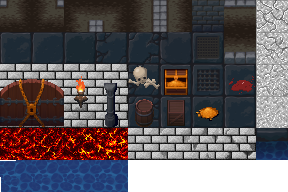
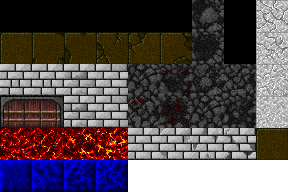
adjusting game area
added new 'paper' area for text under the map render area. removed licensed work and changed to purely opengame art. will work on making maps look better eventually.

diff --git a/DevSource/Run.java b/DevSource/Run.java
@@ -25,7 +25,8 @@ public class Run extends Application {
     public static boolean DEBUG_OUTPUT = true; // If true will allow debug information to be printed to console
     // Wrap System.out.println call with if(DEBUG_OUTPUT) {} to allow it to work or in other classes Run.DEBUG_OUTPUT
     private final int SCREEN_WIDTH = 1024; // Constant of screen width in pixels
-    private final int SCREEN_HEIGHT = 768; // Constant of screen height in pixels
+    private final int SCREEN_HEIGHT = 1024; // Constant of screen height in pixels
+    private final int SCREEN_MAP_HEIGHT = 768; // to show end of map drawing area
     private final int TILE_SIZE = 32; // Hardcoded 32*32 pixels
     private int[] DRAG_LOC = {-1, -1}; // This is a sentinel value that when -1 means there is no mouse drag to process
     // if it is set to a positive value it will be the mouse(x,y) upon the start of a drag
@@ -35,6 +36,7 @@ public class Run extends Application {
     private long startTime = System.nanoTime(); // These two are switches used for render/update logic
     private long currentTime;
     private Image mainMenuBg = new Image("file:GameData/Art/main_menu.png");
+    private Image paperBg = new Image("file:GameData/Art/paper.png", SCREEN_WIDTH, SCREEN_HEIGHT-SCREEN_MAP_HEIGHT, false, false);
     private int battleFrameCounter = 0; // Used to count frames during battle animations,
     // a value of 30 means ~1 sec has passed and should be set back to 0.
     private GraphicsContext gc; // Directly access draw methods on the canvas
@@ -87,6 +89,7 @@ public class Run extends Application {
             gc.fillText(newGameString, menuNewGameBounds[0], menuNewGameBounds[1]);
         } else if(gameState != null && gameState.getCurrentState() == GameState.STATE.GAME) {
             // Graphics logic for displaying a Map to the screen one tile at a time and all present characters
+            gc.clearRect(0, 0, SCREEN_WIDTH, SCREEN_HEIGHT); // Clear canvas
             MapTile[][] mapTiles = gameState.getCurrentMap().getMapTiles();
 
             for(int y=0; y<mapTiles.length; y++) {
@@ -97,6 +100,7 @@ public class Run extends Application {
                     );
                 }
             }
+            gc.drawImage(paperBg, 0, gameState.getCurrentMap().getMapHeight() * TILE_SIZE);
             // Draw all entities that have drawable and are in the currentMap
             for(Entity e: gameState.getEntities()) {
                 if(e instanceof Drawable) {
@@ -165,8 +169,8 @@ public class Run extends Application {
                 }
                 if (!name.equals("")) {
                     if(name.equals(gameState.getPlayerEntity().getName())) {
-                        gc.setStroke(Color.BLACK);
-                        gc.setFill(Color.WHITE);
+                        gc.setStroke(Color.WHITE);
+                        gc.setFill(Color.BLACK);
                         if(gameState.getPlayerEntity().isAlive()) {
                             gc.setTextAlign(TextAlignment.LEFT);
                             gc.fillText("Please Take Your Turn", 10, SCREEN_HEIGHT - 20);
@@ -175,8 +179,8 @@ public class Run extends Application {
                         }
                     } else {
                         if(target != null && ((Character) target).isAlive()) {
-                            gc.setStroke(Color.BLACK);
-                            gc.setFill(Color.WHITE);
+                            gc.setStroke(Color.WHITE);
+                            gc.setFill(Color.BLACK);
                             gc.setTextAlign(TextAlignment.LEFT);
                             gc.fillText(name + " Please Press Spacebar To Advance Their Turn", 10, SCREEN_HEIGHT - 20);
                         } else {
@@ -193,7 +197,11 @@ public class Run extends Application {
             gc.setFill(Color.rgb(43,107,140)); //To be changed to the more appealing 43,107,140 once
                                         //I figure out why custom color makes it freak out.
                                         //For Beta: Creating an image for the border might look nice
-            gc.fillRect(0, 0, SCREEN_WIDTH, SCREEN_HEIGHT);//set HUD background
+            gc.fillRect(0, 0, SCREEN_WIDTH, SCREEN_MAP_HEIGHT);//set HUD background
+
+            // Put character stats here
+            gc.drawImage(paperBg, 0, SCREEN_MAP_HEIGHT);
+
             gc.setFill(Color.GREY);
 
             //draw the battle stage as dynamically as possible
@@ -202,8 +210,8 @@ public class Run extends Application {
             int stageX, stageY, stageW,  stageH;//Variables to store the location and size of the battle stage
 
 
-            gc.fillRect(stageX=SCREEN_WIDTH>>5, stageY=SCREEN_HEIGHT>>5, //this will eventually be replaced
-                    stageW=(SCREEN_WIDTH-(SCREEN_WIDTH>>4)), stageH=(SCREEN_HEIGHT>>1)+(SCREEN_HEIGHT>>3)); //with the background image of the fight scene
+            gc.fillRect(stageX=SCREEN_WIDTH>>5, stageY=SCREEN_MAP_HEIGHT>>5, //this will eventually be replaced
+                    stageW=(SCREEN_WIDTH-(SCREEN_WIDTH>>4)), stageH=(SCREEN_MAP_HEIGHT>>1)+(SCREEN_MAP_HEIGHT>>3)); //with the background image of the fight scene
 
 
 
@@ -233,7 +241,11 @@ public class Run extends Application {
             gc.fillRect(stageW/6, yAxisMod, stageW>>2, 10);
             gc.setFill(Color.GREEN);
             gc.fillRect(stageW/6, yAxisMod, currentHPDisplayed, 10);
-
+            gc.setTextAlign(TextAlignment.LEFT);
+            String heightTest = String.format("Name: %s", ally.getName());
+            double textHeight = new Text(heightTest).getBoundsInLocal().getHeight() + 5;
+            gc.fillText(heightTest, 50, SCREEN_MAP_HEIGHT + textHeight);
+            gc.fillText(String.format("HP: %.0f / %.0f", ally.getHp(), ally.getMaxHP()), 50, SCREEN_MAP_HEIGHT + textHeight * 2);
 
             // Draw Enemy
             int enemyX, enemyY;
@@ -249,11 +261,13 @@ public class Run extends Application {
             gc.fillRect(enemyX, yAxisMod, stageW>>2, 10);
             gc.setFill(Color.GREEN);
             gc.fillRect(enemyX, yAxisMod, currentHPDisplayed, 10);
+            gc.fillText(String.format("Name: %s", enemy.getName()), (SCREEN_WIDTH>>1) + 50, SCREEN_MAP_HEIGHT + textHeight);
+            gc.fillText(String.format("HP: %.0f / %.0f", enemy.getHp(), enemy.getMaxHP()), (SCREEN_WIDTH>>1) + 50, SCREEN_MAP_HEIGHT + textHeight * 2);
 
             //draw Border for fight scene
             gc.setStroke(Color.BLACK);
             gc.setLineWidth(5);
-            gc.strokeRect(SCREEN_WIDTH>>5, SCREEN_HEIGHT>>5, (SCREEN_WIDTH-(SCREEN_WIDTH>>4)), (SCREEN_HEIGHT>>1)+(SCREEN_HEIGHT>>3));
+            gc.strokeRect(SCREEN_WIDTH>>5, SCREEN_MAP_HEIGHT>>5, (SCREEN_WIDTH-(SCREEN_WIDTH>>4)), (SCREEN_MAP_HEIGHT>>1)+(SCREEN_MAP_HEIGHT>>3));
             
             //Create Buttons
             gc.setFill(Color.GREY);
@@ -262,23 +276,23 @@ public class Run extends Application {
             //ATTACK BUTTON, 
             // 1/16 width from left, 1/16 height from bottom of the stage (1/2+1/8+1/16 from top)
             // 3/8 width, 1/4 height
-            final int y1 = (SCREEN_HEIGHT >> 1) + (SCREEN_HEIGHT >> 3) + (SCREEN_HEIGHT >> 4);
+            final int y1 = (SCREEN_MAP_HEIGHT >> 1) + (SCREEN_MAP_HEIGHT >> 3) + (SCREEN_MAP_HEIGHT >> 4);
             gc.fillRect(SCREEN_WIDTH>>4, y1,
-              (SCREEN_WIDTH>>2)+(SCREEN_WIDTH>>3), SCREEN_HEIGHT>>2);
+              (SCREEN_WIDTH>>2)+(SCREEN_WIDTH>>3), SCREEN_MAP_HEIGHT>>2);
             gc.strokeRect(SCREEN_WIDTH>>4, y1,
-                (SCREEN_WIDTH>>2)+(SCREEN_WIDTH>>3), SCREEN_HEIGHT>>2);
+                (SCREEN_WIDTH>>2)+(SCREEN_WIDTH>>3), SCREEN_MAP_HEIGHT>>2);
             gc.setTextAlign(TextAlignment.CENTER);
             //Next Line will be replaced with image in beta
-            final int y2 = (SCREEN_HEIGHT >> 1) + (SCREEN_HEIGHT >> 2) + (SCREEN_HEIGHT >> 4);
+            final int y2 = (SCREEN_MAP_HEIGHT >> 1) + (SCREEN_MAP_HEIGHT >> 2) + (SCREEN_MAP_HEIGHT >> 4);
             gc.strokeText("ATTACK", SCREEN_WIDTH>>2, y2);
             
             //DEFEND BUTTON
             // 9/16 (1/2+1/16), 1/16 height from bottom of the stage
             // 3/8 width, 1/4 height
             gc.fillRect((SCREEN_WIDTH>>1)+(SCREEN_WIDTH>>4), y1,
-                    (SCREEN_WIDTH>>2)+(SCREEN_WIDTH>>3), SCREEN_HEIGHT>>2);
+                    (SCREEN_WIDTH>>2)+(SCREEN_WIDTH>>3), SCREEN_MAP_HEIGHT>>2);
             gc.strokeRect((SCREEN_WIDTH>>1)+(SCREEN_WIDTH>>4), y1,
-                  (SCREEN_WIDTH>>2)+(SCREEN_WIDTH>>3), SCREEN_HEIGHT>>2);
+                  (SCREEN_WIDTH>>2)+(SCREEN_WIDTH>>3), SCREEN_MAP_HEIGHT>>2);
             //Next Line will be replaced with image in beta
             gc.strokeText("DEFEND", SCREEN_WIDTH-(SCREEN_WIDTH>>2), y2);
 
@@ -756,9 +770,9 @@ public class Run extends Application {
             } else if(gameState.getCurrentState() == GameState.STATE.BATTLE) {
                 // DEFEND BUTTON
                 final int defendX = (SCREEN_WIDTH>>1)+(SCREEN_WIDTH>>4);
-                final int defendY = (SCREEN_HEIGHT>>1)+(SCREEN_HEIGHT>>3)+(SCREEN_HEIGHT>>4);
+                final int defendY = (SCREEN_MAP_HEIGHT>>1)+(SCREEN_MAP_HEIGHT>>3)+(SCREEN_MAP_HEIGHT>>4);
                 final int defendW = (SCREEN_WIDTH>>2)+(SCREEN_WIDTH>>3);
-                final int defendH = SCREEN_HEIGHT>>2;
+                final int defendH = SCREEN_MAP_HEIGHT>>2;
                 if(mouseX >= defendX && mouseX <= defendX + defendW) {
                     // within x bounds
                     if(mouseY >= defendY && mouseY <= defendY + defendH) {
@@ -772,7 +786,7 @@ public class Run extends Application {
                 final int attackX = SCREEN_WIDTH>>4;
                 final int attackY = defendY; // Same code line
                 final int attackW = (SCREEN_WIDTH>>2)+(SCREEN_WIDTH>>3);
-                final int attackH = SCREEN_HEIGHT>>2;
+                final int attackH = SCREEN_MAP_HEIGHT>>2;
                 if(mouseX >= attackX && mouseX <= attackX + attackW) {
                     // within x bounds
                     if(mouseY >= attackY && mouseY <= mouseY + attackH) {

diff --git a/DevSource/DevMenu.java b/DevSource/DevMenu.java
@@ -45,7 +45,7 @@ public class DevMenu extends Stage {
         this.setX(0);
         this.setY(0);
         Group devRoot = new Group();
-        Scene devRootScene = new Scene(devRoot, 480, 640);
+        Scene devRootScene = new Scene(devRoot, 640, 640);
         // Cardinal Direction style main UI container
         BorderPane devMainUI = new BorderPane();
         devRoot.getChildren().add(devMainUI);
